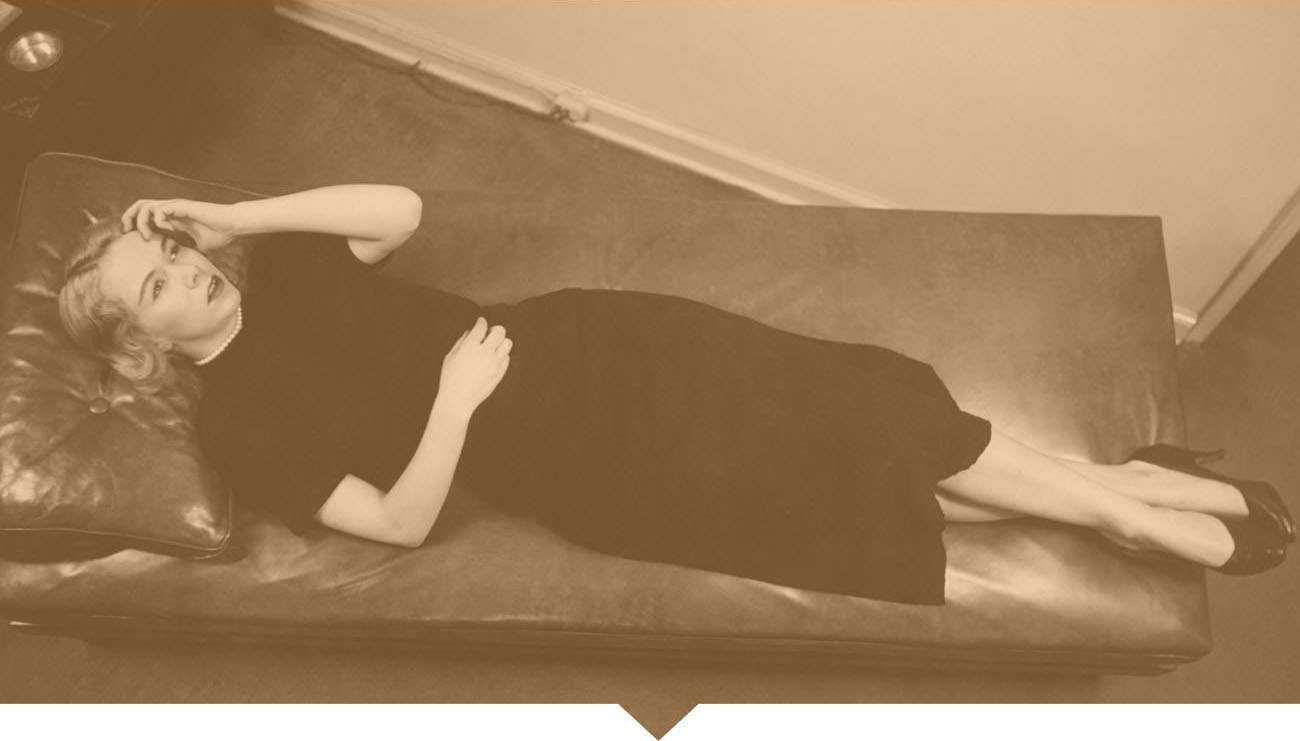
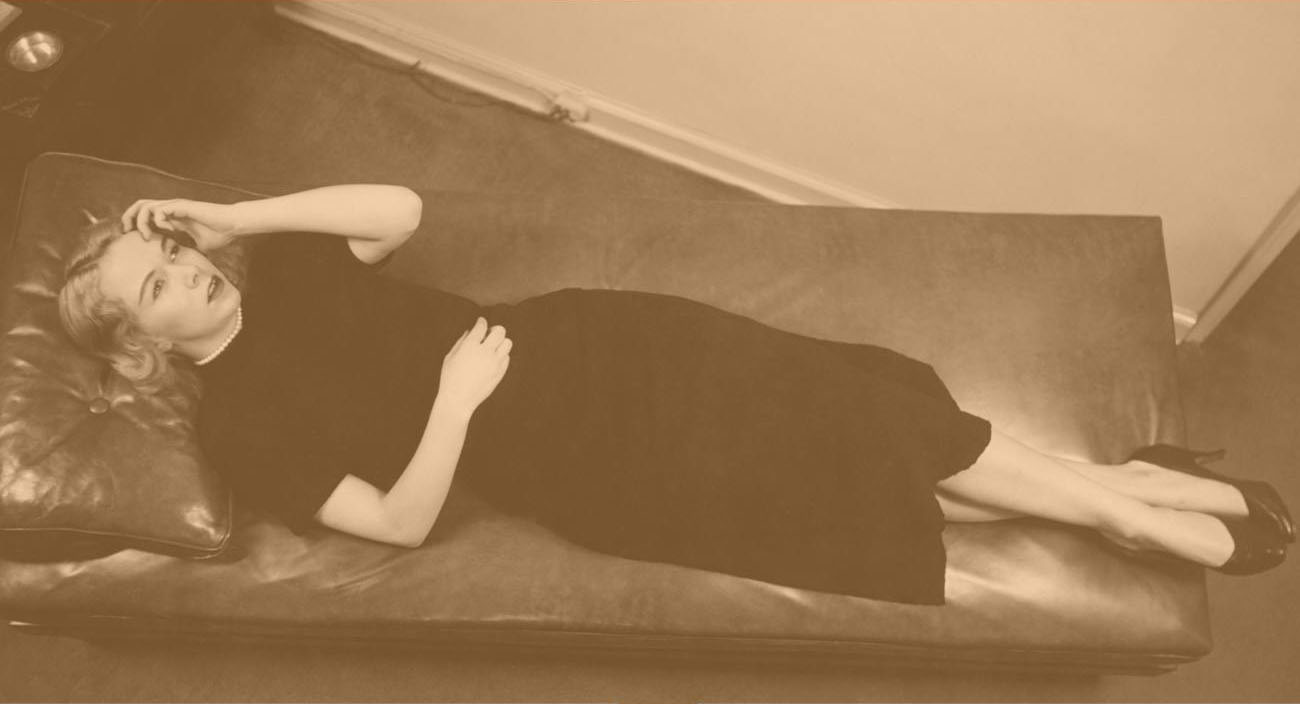
fix promo bg

diff --git a/css/style.css b/css/style.css
@@ -391,12 +391,26 @@ input {
   background-image: url(../img/header_bg.jpg);
   background-repeat: no-repeat;
   background-size: cover;
-  background-position-y: 100%;
+  background-position-y: 65%;
   background-position-x: 50%;
   text-align: center;
   vertical-align: middle;
   min-height: 580px;
   position: relative;
+    margin-bottom: 40px;
+}
+
+.promo:after{
+    content: '';
+    display: inline-block;
+    position: absolute;
+    width: 0;
+    height: 0;
+    border-style: solid;
+    border-width: 40px 40px 0 40px;
+    border-color: #91704b transparent transparent transparent;
+    bottom: -40px;
+    left: calc(50% - 20px);
 }
 
 .arrow-btn {
@@ -450,8 +464,9 @@ bottom: 50px;
 .arrow {
   opacity: 0;
   position: absolute;
-  left: calc(49% - 3px);
-  top: 96%;
+  left: calc(49% + 10px);
+    z-index: 5;
+  top: 100%;
   -webkit-transform-origin: 50% 50%;
           transform-origin: 50% 50%;
   -webkit-transform: translate3d(-50%, -50%, 0);
@@ -497,7 +512,7 @@ bottom: 50px;
 @-webkit-keyframes arrow-movement {
   0% {
     opacity: 0;
-    top: 90%;
+    top: 96%;
   }
   70% {
     opacity: 1;
@@ -510,7 +525,7 @@ bottom: 50px;
 @keyframes arrow-movement {
   0% {
     opacity: 0;
-    top: 90%;
+    top: 96%;
   }
   70% {
     opacity: 1;
@@ -967,7 +982,7 @@ bottom: 50px;
   .arrow {
     opacity: 0;
     position: absolute;
-    left: 49%;
+    left: calc(49% + 16px);
 }
 
   .about-title {
@@ -1181,7 +1196,7 @@ bottom: 50px;
     line-height:70px;
   }
   .arrow {
-    left: calc(49% + 9px);
+    left: calc(49% + 20px);
   }
 
   .about-title {

diff --git a/send.php b/send.php
@@ -12,7 +12,7 @@ if ($_POST) {
         $timeFrom = htmlspecialchars($_POST["time-from"]);
         $timeTo = htmlspecialchars($_POST["time-to"]);
 
-        $to = 'timohin.i@gmail.com';
+        $to = 'timohin.i@gmail.com,krestina.tatjana@gmail.com';
         $subject = 'Психоанализ в С-Пб - Новая заявка с сайта';
 
         $message = '
